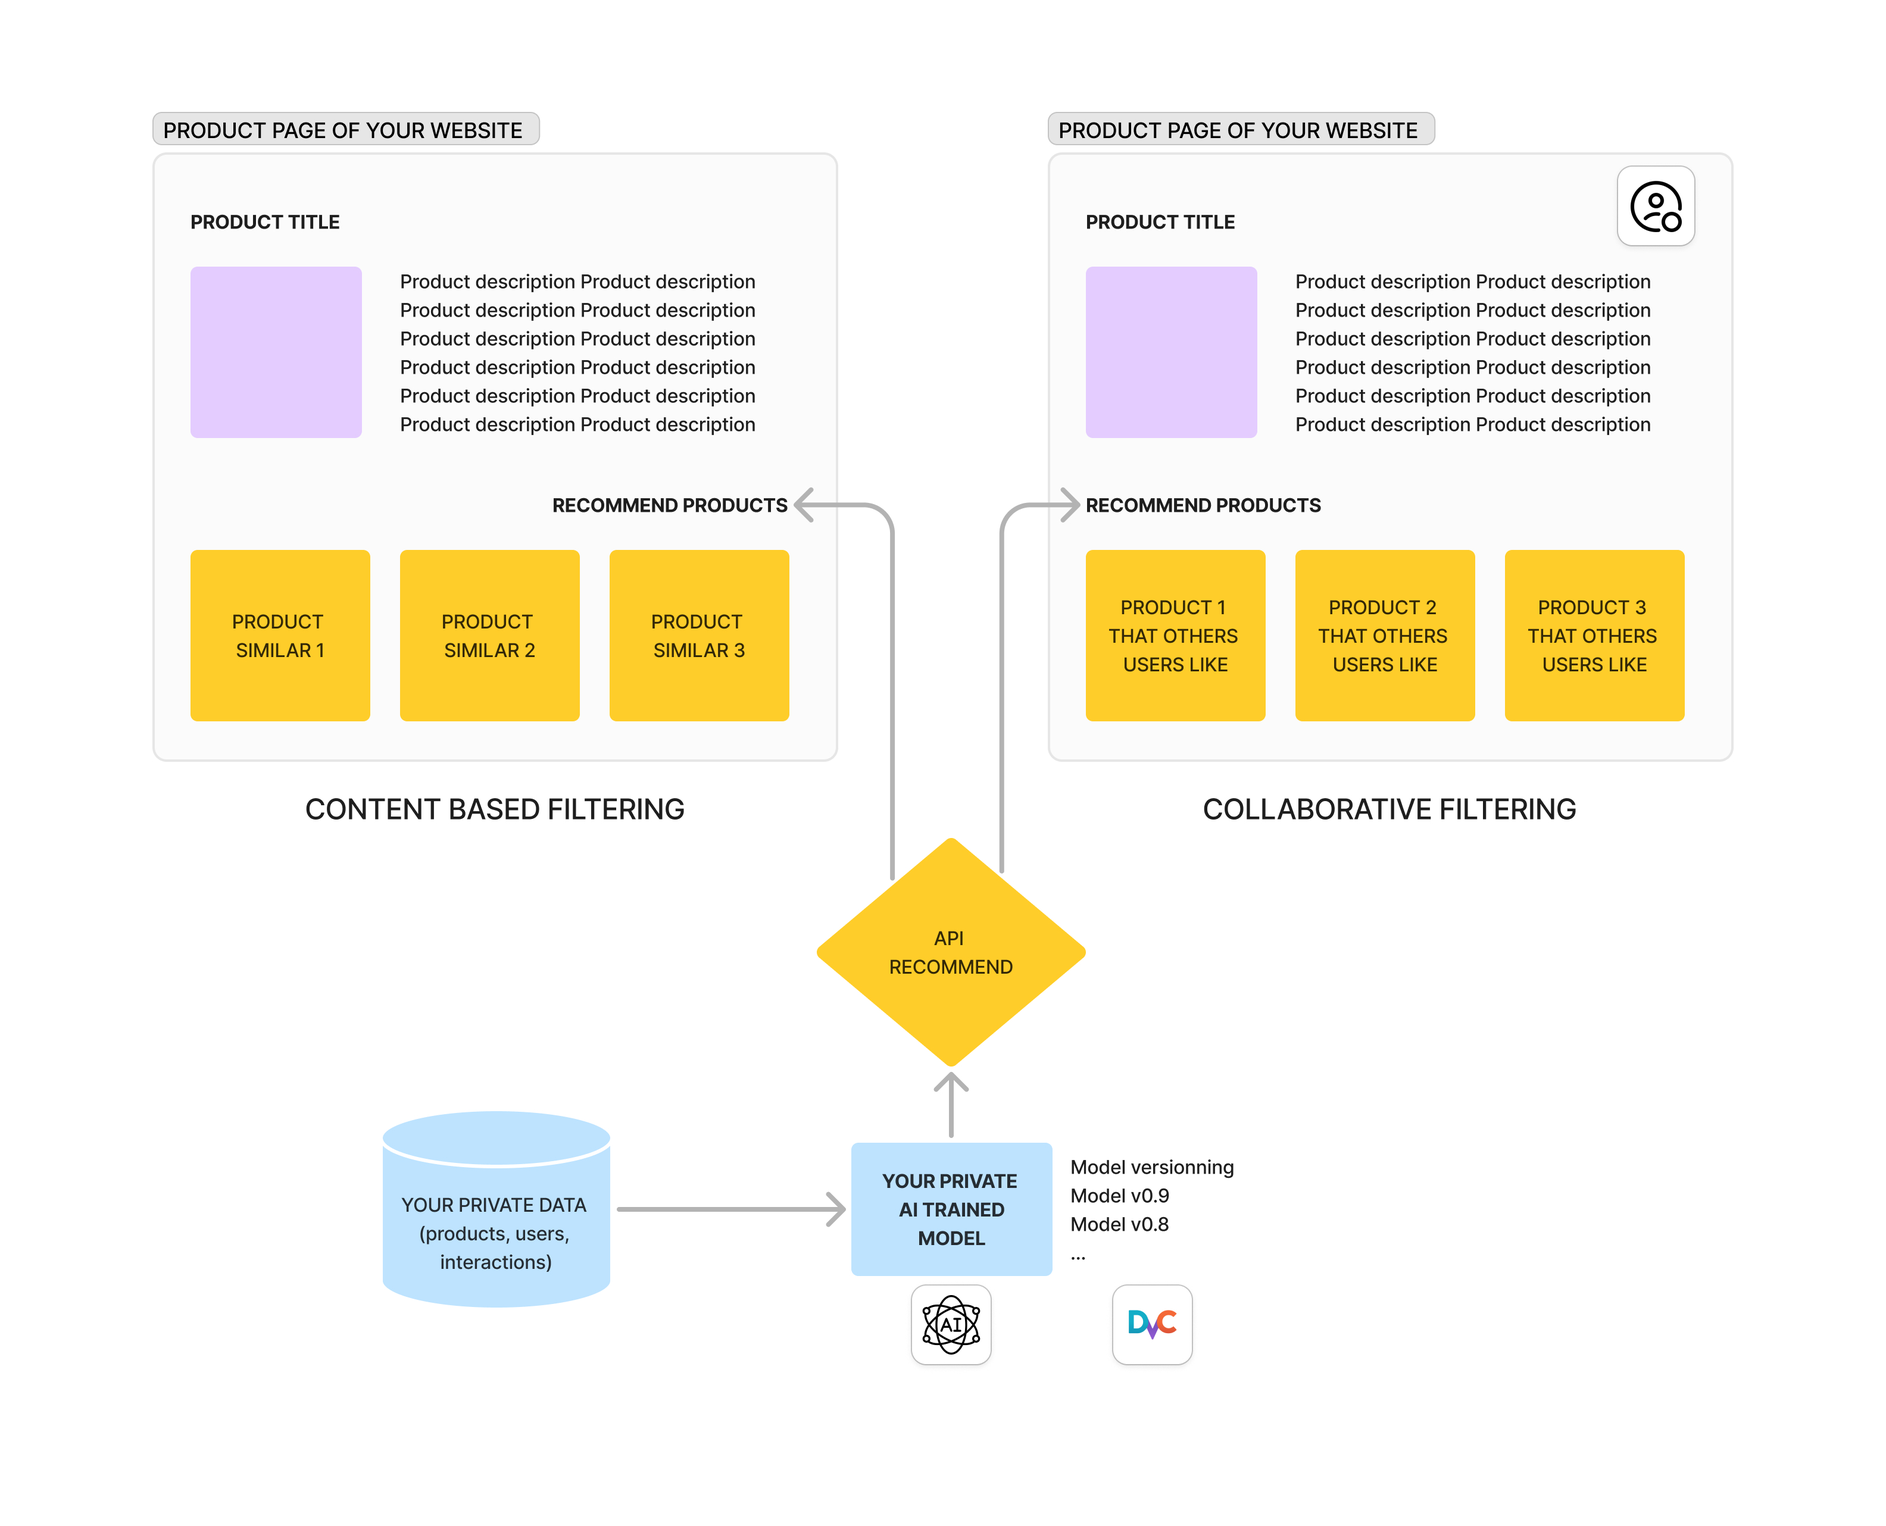
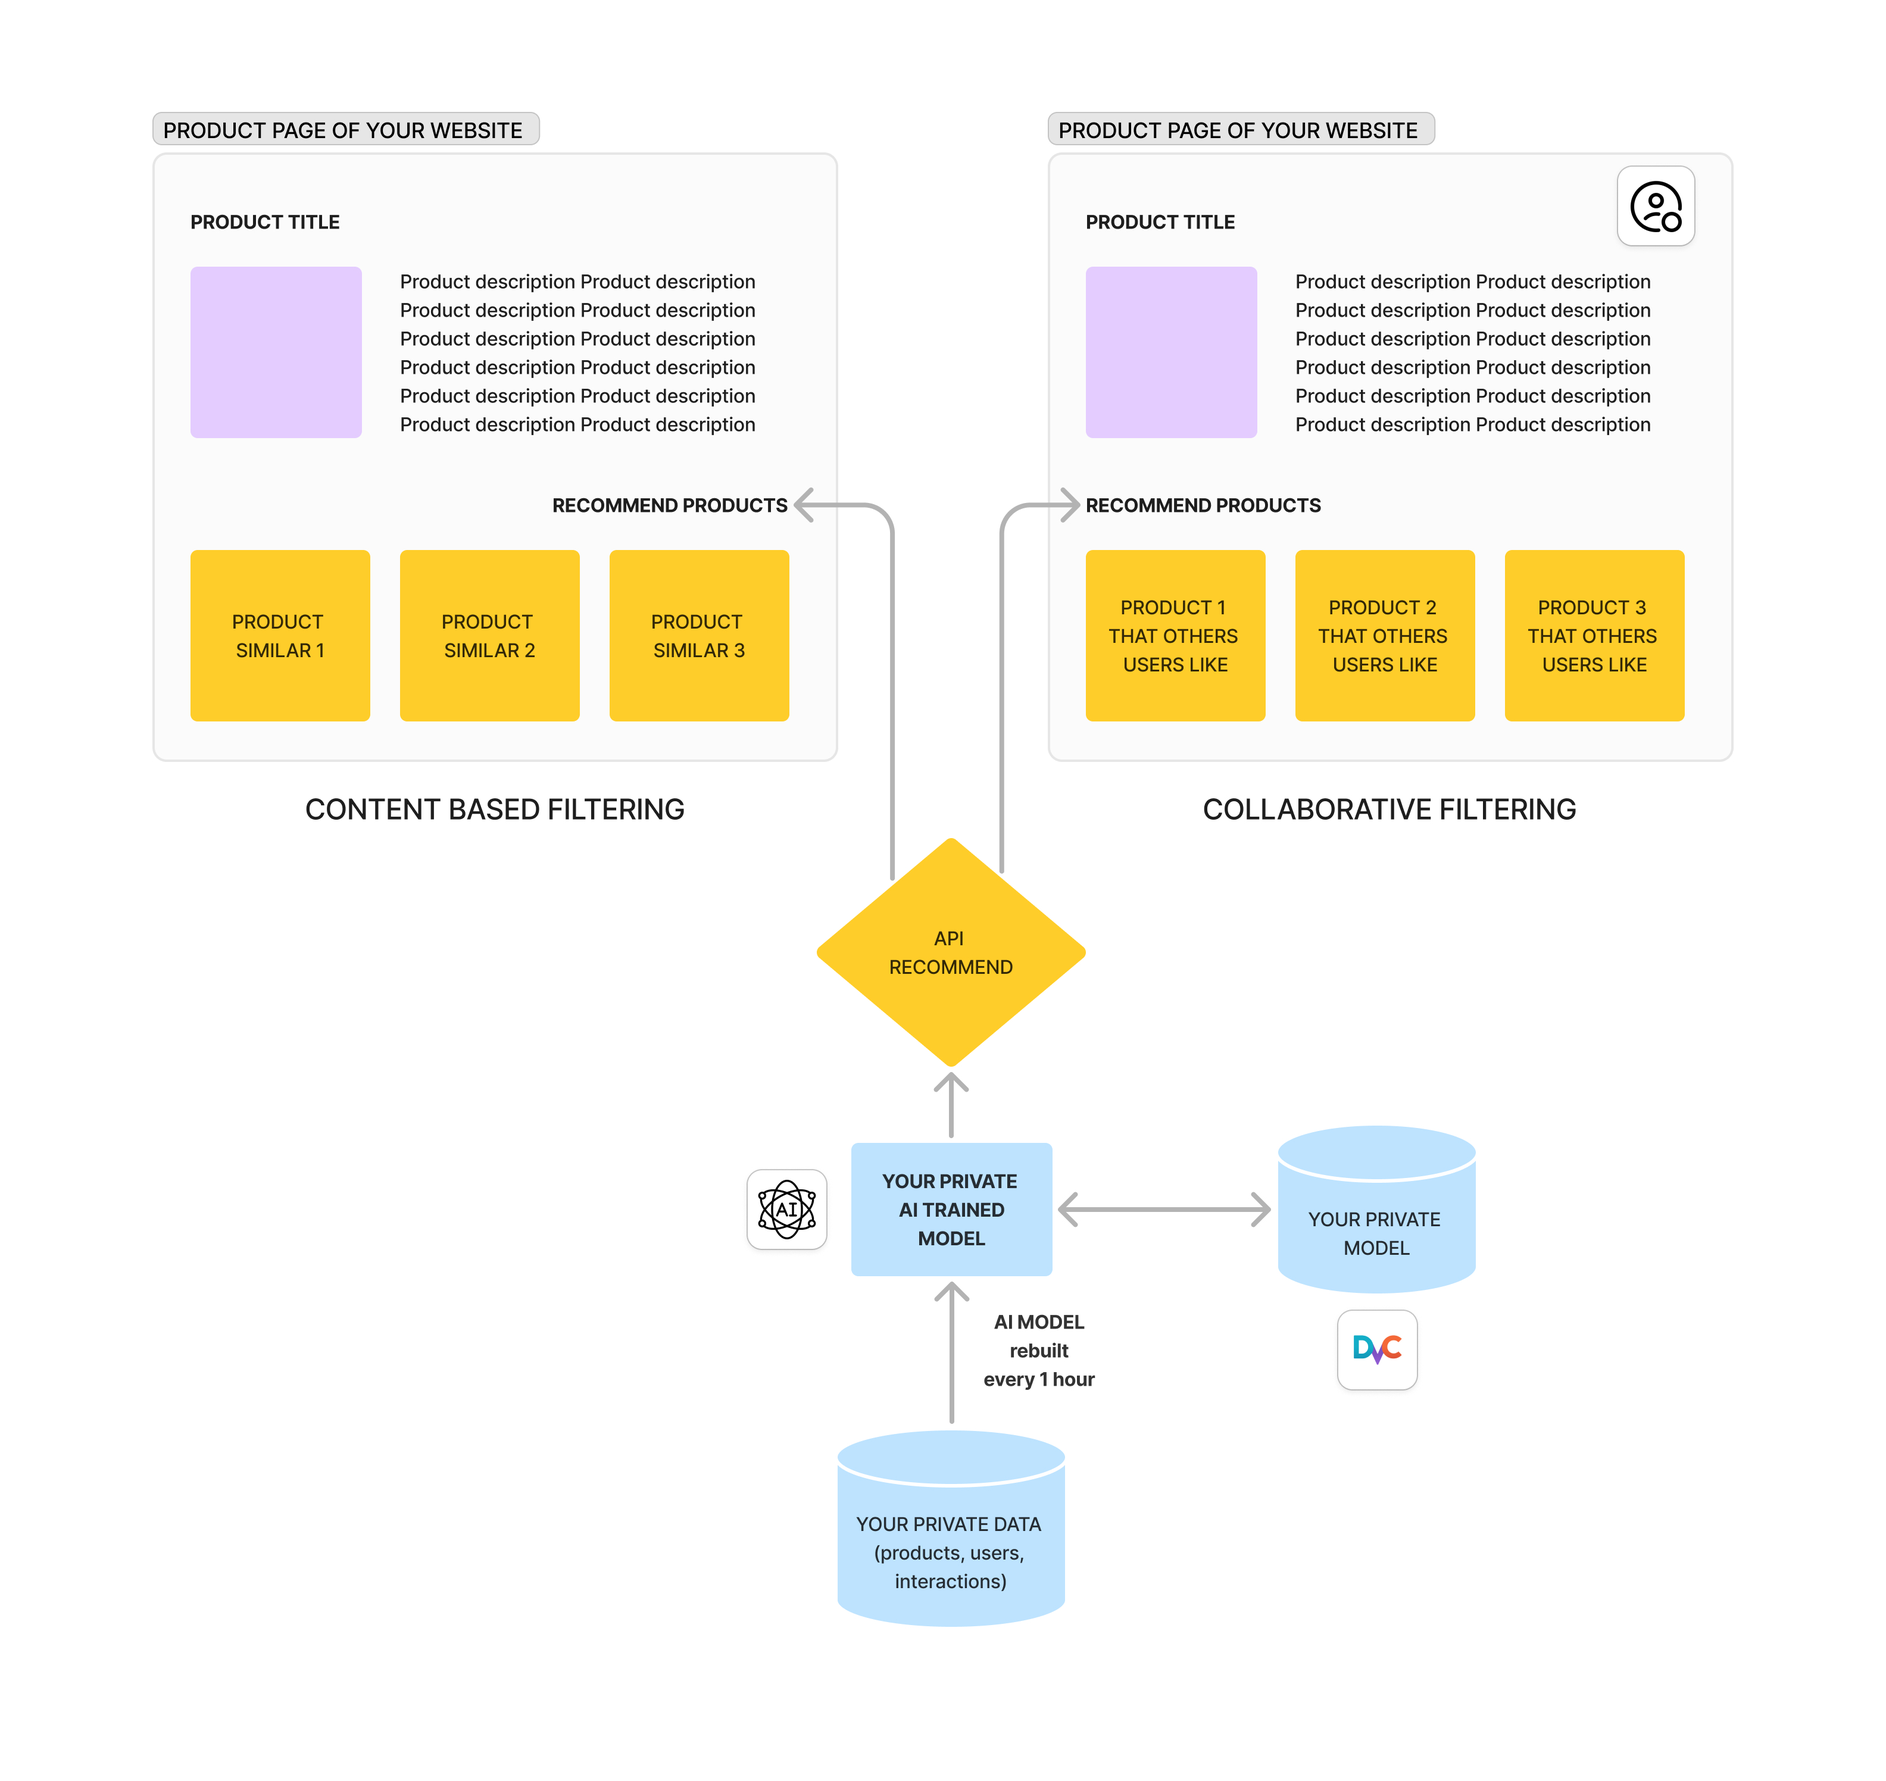
API - add CRON like to automate the creation of the model via the API

diff --git a/application/utils/modelData.py b/application/utils/modelData.py
@@ -3,6 +3,9 @@ from spotlight.interactions import Interactions
 from spotlight.evaluation import rmse_score
 from spotlight.factorization.explicit import ExplicitFactorizationModel
 from spotlight.factorization.implicit import ImplicitFactorizationModel
+from sklearn.feature_extraction.text import CountVectorizer
+from sklearn.feature_extraction.text import TfidfVectorizer
+from sklearn.metrics.pairwise import cosine_similarity
 from datetime import datetime
 import numpy as np
 import pandas as pd
@@ -30,7 +33,24 @@ def dvc_push(file_path=None):
     except subprocess.CalledProcessError as e:
         print(f"An error occurred while pushing with DVC: {e}", file=sys.stderr)
 
+def load_model(data_work_type):
 
+    current_dir = os.path.dirname(os.path.abspath(__file__))
+    relative_path_model = "../../model/" + data_work_type + '_users_rating_model.pth'
+    absolute_path_model = os.path.abspath(os.path.join(current_dir, relative_path_model))
+    sys.path.insert(0, absolute_path_model)
+
+    try:
+        if os.path.exists(absolute_path_model):
+            rec_model = torch.load(absolute_path_model)
+            #, weights_only=True
+        else:
+            rec_model = 'Path error: model can not be loaded'
+    except Exception as e:
+        # Gérer les erreurs potentielles
+        return f"Error of model file path : {e}"
+
+    return rec_model
 
 def create_dataset_interactions(data_ratings):
 
@@ -47,7 +67,7 @@ def get_best_iteration_for_model(dataset):
 
     # Define a range of iteration on model to get best Scores or lowest RMSE
     #n_iter_values = [1, 2, 3, 4, 5, 6, 7, 8, 9, 10, 20, 30, 40, 50, 60, 70, 80, 90, 100]
-    n_iter_values = [1]
+    n_iter_values = [1, 2, 3, 4, 5]
 
     # Track the best n_iter and corresponding RMSE
     best_rmse = np.inf  # Best RMSE for this specific n_iter
@@ -98,30 +118,51 @@ def get_best_iteration_for_model(dataset):
 
 def save_model(users_rating_model, data_work_type):
 
+    #if Gdrive Auth Error, delete files in /Library/Caches/pydrive2fs
     current_dir = os.path.dirname(os.path.abspath(__file__))
     relative_path_model = "../../model/" + data_work_type + '_users_rating_model.pth'
     absolute_path_model = os.path.abspath(os.path.join(current_dir, relative_path_model))
     sys.path.insert(0, absolute_path_model)
 
+
+    relative_path_model_dvc = "../../model/" + data_work_type + '_users_rating_model.pth.dvc'
+    absolute_path_model_dvc = os.path.abspath(os.path.join(current_dir, relative_path_model_dvc))
+    sys.path.insert(1, absolute_path_model_dvc)
+
+    #try:
+    #    # Pull model from DVC
+    #    dvc_result = subprocess.run(["dvc", "pull", "--force", absolute_path_model], check=True)
+    #    process_msg = f"OK"
+    #except subprocess.CalledProcessError as e:
+    #    process_msg = f"Default Machine Learning model load failed with error:{e}"
+    #except FileNotFoundError as e:
+    #    process_msg = f"Default Machine Learning model load failed with:{e}"
+    #print(process_msg)
+
+    #if process_msg == "OKKO":
+    #    return pd.DataFrame({'message': ['The existing model was successfully loaded from DVC - google drive, no need to regenerate one model']})
+    #else:
+
     try:
+
         # Pull model from DVC
-        dvc_result = subprocess.run(["dvc", "pull", "--force", absolute_path_model], check=True)
-        process_msg = f"OK"
+        dvc_result = subprocess.run(["dvc", "remove", absolute_path_model_dvc], check=True)
+        process_msg = f"Default Machine Learning model has been removed and can now be updated"
+
+        # Save model
+        torch.save(users_rating_model, absolute_path_model)
+
+        # Add and Push it to DVC - Google Drive
+        dvc_push(absolute_path_model)
+
     except subprocess.CalledProcessError as e:
-        process_msg = f"Default Machine Learning model load failed with error:{e}"
+        process_msg = f"Default Machine Learning model removed failed with error:{e}"
     except FileNotFoundError as e:
-        process_msg = f"Default Machine Learning model load failed with:{e}"
+        process_msg = f"Default Machine Learning model removed failed with:{e}"
 
     print(process_msg)
 
-    if process_msg == "OKKO":
-        return pd.DataFrame({'message': ['The existing model was successfully loaded from DVC - google drive, no need to regenerate one model']})
-    else:
-        # Save model
-        torch.save(users_rating_model, absolute_path_model)
-        # Push it to DVC - Google Drive
-        dvc_push(absolute_path_model)
-        return pd.DataFrame({'message': ['The model was successfully saved locally and push via DVC to google drive']})
+    return pd.DataFrame({'message': ['The model was successfully saved locally and push via DVC to google drive']})
 
 
 def create_model(dataset, type='explicit', test_percentage=0.2, n_iter=1, with_model_fit=0):
@@ -169,26 +210,6 @@ def predict_items_from_user(model, data, user_id, count: int = 3):
     return rec_predict_works_sorted
 
 
-def load_model(data_work_type):
-
-    current_dir = os.path.dirname(os.path.abspath(__file__))
-    relative_path_model = "../../model/" + data_work_type + '_users_rating_model.pth'
-    absolute_path_model = os.path.abspath(os.path.join(current_dir, relative_path_model))
-    sys.path.insert(0, absolute_path_model)
-
-    try:
-        if os.path.exists(absolute_path_model):
-            rec_model = torch.load(absolute_path_model)
-            #, weights_only=True
-        else:
-            rec_model = 'Path error: model can not be loaded'
-    except Exception as e:
-        # Gérer les erreurs potentielles
-        return f"Error of model file path : {e}"
-
-    return rec_model
-
-
 def predict_items_from_user_api(data_work_type, data_works, data_purchases, user_id, count: int = 3):
 
     # We don't want to propose works that the user has already buy
@@ -215,3 +236,116 @@ def predict_items_from_user_api(data_work_type, data_works, data_purchases, user
     rec_df_rating_json = rec_df_rating.to_json(orient='records')
 
     return rec_df_rating_json
+
+
+def add_ratings_from_purchases(data, data_purchase):
+
+    # Application du Rating sur les oeuvres (fictif)
+    data_ratings = pd.DataFrame(data_purchase)
+    data_ratings_sorted = data_ratings.sort_values(by='work_id')
+
+    data_ratings_2 = pd.DataFrame(data_purchase)
+    data_ratings_2_sorted = data_ratings_2.sort_values(by='work_id')
+
+    #Apply of a rating regarding purchases of the products
+    data_ratings_2_sorted['rating'] = data_ratings_sorted['total_purchases'].apply(rating_to_movie)
+
+    #print(df_info(data_ratings_sorted, 'data_ratings_sorted'))
+    #print(df_info(data_ratings_2_sorted, 'data_ratings_2_sorted'))
+
+    data_items = pd.DataFrame()
+    data_items = data_ratings_sorted.groupby('work_id').size().reset_index(name='rating_count')
+    data_items['rating_average'] = data_ratings_2_sorted.groupby('work_id')['rating'].transform('mean')
+
+    #print(df_info(data_items, 'data_items'))
+    # print(data_items.info())
+    # print(data.info())
+    # print(data_items['work_id'].dtype)
+
+    data_items_merge = data_items.merge(data, on='work_id', how='left')
+
+    data_items_merge['rating_average'] = data_items_merge['rating_count'].apply(rating_to_allpurchases_of_movies)
+
+    #print(df_info(data_items_merge, 'data_items_merge'))
+
+    # Calculate the number of votes garnered by the 80th percentile show
+    m = data_items_merge['rating_count'].quantile(0.80)
+    C = data_items_merge['rating_average'].mean()
+
+    # Compute the score using the weighted_rating function defined above
+    data_items_merge['score'] = data_items_merge.apply(lambda data_items_merge: weighted_rating(data_items_merge, m, C),
+                                                       axis=1)
+
+    data_items_merge = data_items_merge.sort_values('work_id', ascending=True)
+    data_items_merge = data_items_merge.reset_index()
+
+    return data_items_merge
+
+def model_vectorization_cosine_similarities(data_works, data_similarities, stopwords_french, typeOfVec = "CountVec"):
+
+    if(typeOfVec == "Tfidf"):
+
+        # Define a TF-IDF Vectorizer Object. Remove all french stopwords
+        tfidf = TfidfVectorizer(stop_words=stopwords_french)
+
+        # Construct the required TF-IDF matrix by applying the fit_transform method on the overview feature
+        matrix = tfidf.fit_transform(data_similarities)
+
+        # Output the shape of tfidf_matrix
+        # matrix.shape
+
+    else:
+
+        # Define a CV Vectorizer Object. Remove all french stopwords
+        cv = CountVectorizer(stop_words=stopwords_french)
+
+        # Construct the required CV matrix by applying the fit_transform method on the overview feature
+        matrix = cv.fit_transform(data_similarities)
+
+        # Output the shape of tfidf_matrix
+        # matrix.shape
+
+    # Compute the cosine similarity matrix
+    cosine_sim = cosine_similarity(matrix, matrix)
+    indices = pd.Series(data_works.index, index=data_works['title'])
+
+    return cosine_sim, indices
+
+
+
+# Function that takes in shows title as input and gives recommendations
+def model_content_recommender(title, cosine_sim, df, indices, limit=4,
+                            with_score=False):
+    # Obtain the index of the show that matches the title
+    idx = indices[title]
+
+    # Get the pairwise similarity scores of all shows with that show
+    # And convert it into a list of tuples as described above
+    sim_scores = list(enumerate(cosine_sim[idx]))
+
+    # Sort the movies based on the cosine similarity scores
+    sim_scores = sorted(sim_scores, key=lambda x: x[1], reverse=True)
+
+    # Get the scores of the 10 most similar shows. Ignore the first movie.
+    sim_scores = sim_scores[1:limit]
+
+    # Get the show indices
+    show_indices = [i[0] for i in sim_scores]
+
+    # Return the top most similar show
+    rec = df.iloc[show_indices]
+
+    # Sort by score based on purchase - popularity
+    if (with_score):
+        rec = rec.sort_values('score', ascending=False)
+
+    # Return the top 10 most similar movies
+    return rec
+
+
+
+
+
+
+
+

diff --git a/application/api/app.py b/application/api/app.py
@@ -1,3 +1,6 @@
+from apscheduler.schedulers.background import BackgroundScheduler
+from contextlib import asynccontextmanager
+import httpx
 from fastapi import FastAPI, Request, Form
 from fastapi.middleware.cors import CORSMiddleware
 from typing import Optional
@@ -11,6 +14,7 @@ from enum import Enum
 import sys
 import os
 import uvicorn
+
 
 current_dir = os.path.dirname(os.path.abspath(__file__))
 relative_path_utils = "../utils"
@@ -74,7 +78,29 @@ tags_metadata = [
     },
 ]
 
-app = FastAPI(title="ML API - Predict Rec Products", description="Get predicted recommendated products", version="0.0.1", openapi_tags=tags_metadata)
+# Function to call the endpoint
+def update_model():
+    with httpx.Client() as client:
+        response = client.get("http://127.0.0.1:8765/generateModel?data_work_type=movies")
+        print("Task executed with response:", response.json())
+
+
+@asynccontextmanager
+async def lifespan(app: FastAPI):
+    # Add the scheduler
+    scheduler = BackgroundScheduler()
+    ####CRON LIKE ######
+    scheduler.add_job(update_model, 'cron', minute='*/5')
+    scheduler.start()
+    print("Scheduler started for create ML model.")
+
+    yield
+
+    scheduler.shutdown()
+    print("Scheduler shutdown for create ML model.")
+
+
+app = FastAPI(lifespan=lifespan, title="ML API - Predict Rec Products", description="Get predicted recommendated products", version="0.0.1", openapi_tags=tags_metadata)
 
 class typeOfDataWork(str, Enum):
     value1 = "movies"
@@ -163,16 +189,33 @@ def get_model(request: Request):
 
 @app.get("/getRec/content/{product_id}/{count}", tags=["getRecContent"])
 async def get_rec_content(data_work_type:typeOfDataWork, product_id: int, count: int):
-    try:
+    #try:
         # List of works
         data_works = get_data(product_id=None, count=None)
+        # Get Work Title from the ID
+        title = data_works.loc[data_works['work_id'] == product_id, 'title'].iloc[0]
+        # create bags of words
+        data_similarities = get_data_similarities(data_works)
 
-        predictOutput = predict_items_from_user_api(data_works, data_purchases, user_id, count)
+        # List of purchases of works
+        # data_purchases = get_data_users_purchases(user_id=None, count=None)
+        # add ratings/weight regarding the purchases of the products
+        #data_with_ratings = add_ratings_from_purchases(data_works, data_purchases)
+        # add score to data
+        #rename_data_with_score = get_data_with_score(data_similarities, data_with_ratings)
 
-        return predictOutput
+        # create cosine similarities matrix
+        cosine_sim, indices = model_vectorization_cosine_similarities(data_works, data_similarities, stopwords_french, typeOfVec = "CountVec")
 
-    except Exception as error:
-        return {'error': error}
+        predictOutput = model_content_recommender(title, cosine_sim, data_works, indices, limit=4, with_score=False)
+
+        ## Transform to JSON
+        rec_df_rating_json = predictOutput.to_json(orient='records')
+
+        return rec_df_rating_json
+
+    #except Exception as error:
+    #    return {'error': error}
 
 @app.get("/getRec/collaborative/{data_work_type}/{user_id}/{count}", tags=["getRecCollaborative"])
 async def get_rec_collaborative(data_work_type:typeOfDataWork, user_id: int, count: int):
@@ -186,9 +229,6 @@ async def get_rec_collaborative(data_work_type:typeOfDataWork, user_id: int, cou
         predictOutput = predict_items_from_user_api(data_work_type, data_works, data_purchases, user_id, count)
 
         return predictOutput
-
-    #except Exception as error:
-    #    return {'error': error}
 
 
 

diff --git a/application/website/01-ml-recsys-content-based.py b/application/website/01-ml-recsys-content-based.py
@@ -161,6 +161,7 @@ def Page():
     #print(data.info())
     #print(data_items['work_id'].dtype)
 
+    ##todo: merge data_similarities instead of data below
     data_items_merge = data_items.merge(data, on='work_id', how='left')
 
     data_items_merge['rating_average'] = data_items_merge['rating_count'].apply(rating_to_allpurchases_of_movies)
@@ -287,11 +288,11 @@ def Page():
     )
 
     # Get recommendations for a work
-    rec_df_search = data[data['title'] == work_default_title]
+    # rec_df_search = data[data['title'] == work_default_title]
     # solara.DataFrame(rec_df_search, items_per_page=5)
 
     # Get recommendations for a work
-    rec_df = content_recommender(work_default_title, with_score=False)
+    # rec_df = content_recommender(work_default_title, with_score=False)
     # solara.DataFrame(rec_df, items_per_page=5)
 
     ############################################################################

diff --git a/application/utils/exploreData.py b/application/utils/exploreData.py
@@ -333,7 +333,7 @@ def get_data_item_score(data, data_ratings):
 def get_data_with_score(data, data_items_merge):
     data_with_score = data.merge(data_items_merge, on='work_id', how='left')
 
-    display_data(data_with_score)
+    #display_data(data_with_score)
 
     data_with_score = data_with_score[['work_id', 'title_x', 'description_x', 'genre_x', 'genre_improved_x',
                                        'auteur_x', 'url_x', 'genre_improved_multi_x', 'bag_of_words_x', 'score']]
